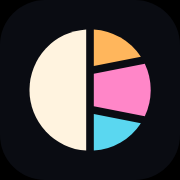
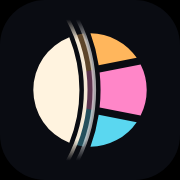
feat(site): ✨ the mark takes the hairlines of the lens
The disc cut in two keeps its two halves, a white one and one of three
colours. The cut between them opens and holds the lens of the home page: two
hairlines bent around the white half, which run on past the disc and fade,
with a breath of each colour between them. At 16 px the hairlines are too fine
to see and the mark is a disc cut in two.

The two gradients that fade the hairlines are reached by name, and the mark
is drawn twice on a page: `freshId` counts them page by page. Favicon, Apple
icon and the share picture follow.

Changed region(s): [[0.1389, 0.1111, 0.7778, 0.8889], [0.7778, 0.3333, 0.8611, 0.6667]]

diff --git a/scripts/og/og.html b/scripts/og/og.html
@@ -108,18 +108,76 @@
   <body>
     <div class="brand">
       <svg viewBox="0 0 32 32" fill="none">
-        <path d="M15.15 2.53a13.5 13.5 0 0 0 0 26.94Z" fill="#fff3df" />
+        <defs>
+          <linearGradient
+            id="og-near"
+            x1="0"
+            y1="0.3"
+            x2="0"
+            y2="31.7"
+            gradientUnits="userSpaceOnUse"
+          >
+            <stop offset="0" stop-color="#fff3df" stop-opacity="0" />
+            <stop offset="0.15" stop-color="#fff3df" stop-opacity="0.95" />
+            <stop offset="0.85" stop-color="#fff3df" stop-opacity="0.95" />
+            <stop offset="1" stop-color="#fff3df" stop-opacity="0" />
+          </linearGradient>
+          <linearGradient
+            id="og-far"
+            x1="0"
+            y1="0.3"
+            x2="0"
+            y2="31.7"
+            gradientUnits="userSpaceOnUse"
+          >
+            <stop offset="0" stop-color="#fff" stop-opacity="0" />
+            <stop offset="0.15" stop-color="#fff" stop-opacity="0.62" />
+            <stop offset="0.85" stop-color="#fff" stop-opacity="0.62" />
+            <stop offset="1" stop-color="#fff" stop-opacity="0" />
+          </linearGradient>
+        </defs>
         <path
-          d="M16.85 2.53a13.5 13.5 0 0 1 10.46 6.09l-10.46 2.05Z"
+          d="M11.4 4.27A12.6 12.6 0 0 0 11.4 27.73A31.65 31.65 0 0 0 11.4 4.27Z"
+          fill="#fff3df"
+        />
+        <path
+          d="M16.1 3.4A12.6 12.6 0 0 1 26.38 8.86L17.93 10.51A36.35 36.35 0 0 0 16.1 3.4Z"
           fill="#ffb65c"
         />
         <path
-          d="M16.85 12.4l11.33-2.21a13.5 13.5 0 0 1 0 11.62L16.85 19.6Z"
+          d="M18.14 12.1L27.25 10.32A12.6 12.6 0 0 1 27.25 21.68L18.14 19.9A36.35 36.35 0 0 0 18.14 12.1Z"
           fill="#ff86c8"
         />
         <path
-          d="M16.85 21.33l10.46 2.05a13.5 13.5 0 0 1-10.46 6.09Z"
+          d="M17.93 21.49L26.38 23.14A12.6 12.6 0 0 1 16.1 28.6A36.35 36.35 0 0 0 17.93 21.49Z"
           fill="#5ad7f0"
+        />
+        <path
+          d="M12.73 3.83A12.6 12.6 0 0 1 14.63 3.47A34.95 34.95 0 0 1 16.67 11.57L14.8 11.93A33.05 33.05 0 0 0 12.73 3.83Z"
+          fill="#ffb65c"
+          fill-opacity="0.34"
+        />
+        <path
+          d="M14.8 11.93L16.67 11.57A34.95 34.95 0 0 1 16.67 20.43L14.8 20.07A33.05 33.05 0 0 0 14.8 11.93Z"
+          fill="#ff86c8"
+          fill-opacity="0.34"
+        />
+        <path
+          d="M14.8 20.07L16.67 20.43A34.95 34.95 0 0 1 14.63 28.53A12.6 12.6 0 0 1 12.73 28.17A33.05 33.05 0 0 0 14.8 20.07Z"
+          fill="#5ad7f0"
+          fill-opacity="0.34"
+        />
+        <path
+          d="M11.08 0.3A33.05 33.05 0 0 1 11.08 31.7"
+          stroke="url(#og-near)"
+          stroke-width="0.8"
+          stroke-linecap="round"
+        />
+        <path
+          d="M13.23 0.3A34.95 34.95 0 0 1 13.23 31.7"
+          stroke="url(#og-far)"
+          stroke-width="0.8"
+          stroke-linecap="round"
         />
       </svg>
       <span>brig<span class="dot"></span>id</span>

diff --git a/src/lib/ids.ts b/src/lib/ids.ts
@@ -1,0 +1,16 @@
+// Names for what SVG can only reach by name (a gradient, a mask). A drawing
+// that appears twice on a page, like the mark in the header and in the footer,
+// needs a different one each time.
+
+const counts = new Map<string, number>();
+
+/**
+ * A name no other element of the page carries: `mark-1`, then `mark-2`, …
+ * Counted page by page, so that a page is built the same way every time.
+ */
+export function freshId(prefix: string, page: string): string {
+  const key = `${page} ${prefix}`;
+  const next = (counts.get(key) ?? 0) + 1;
+  counts.set(key, next);
+  return `${prefix}-${next}`;
+}
